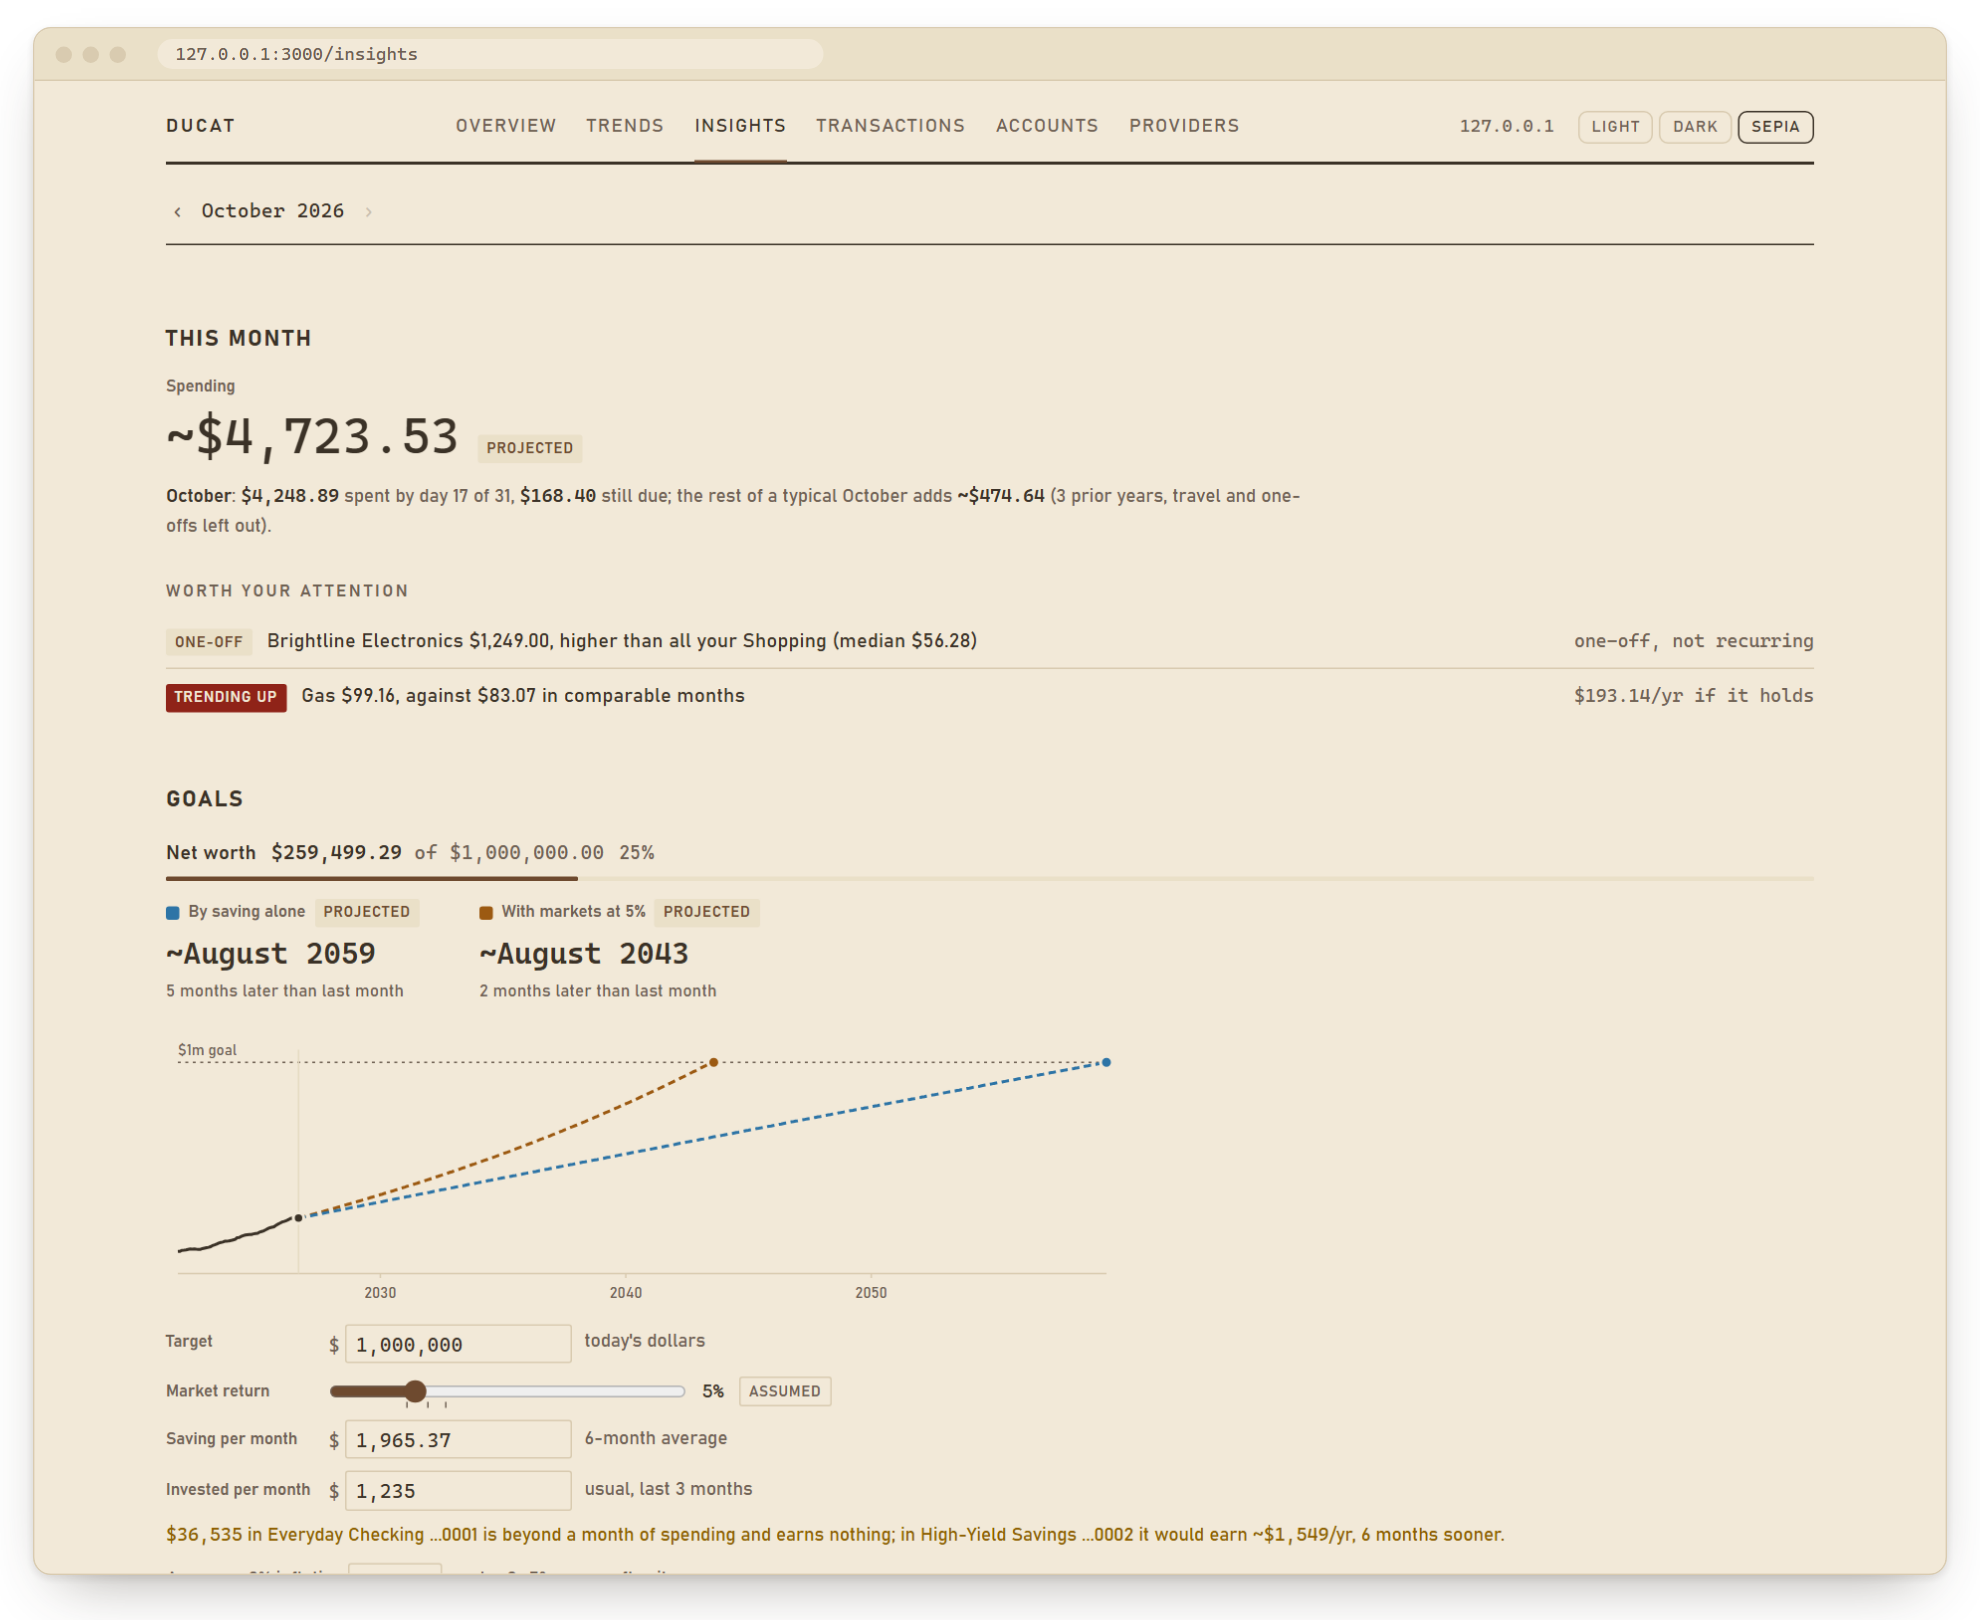
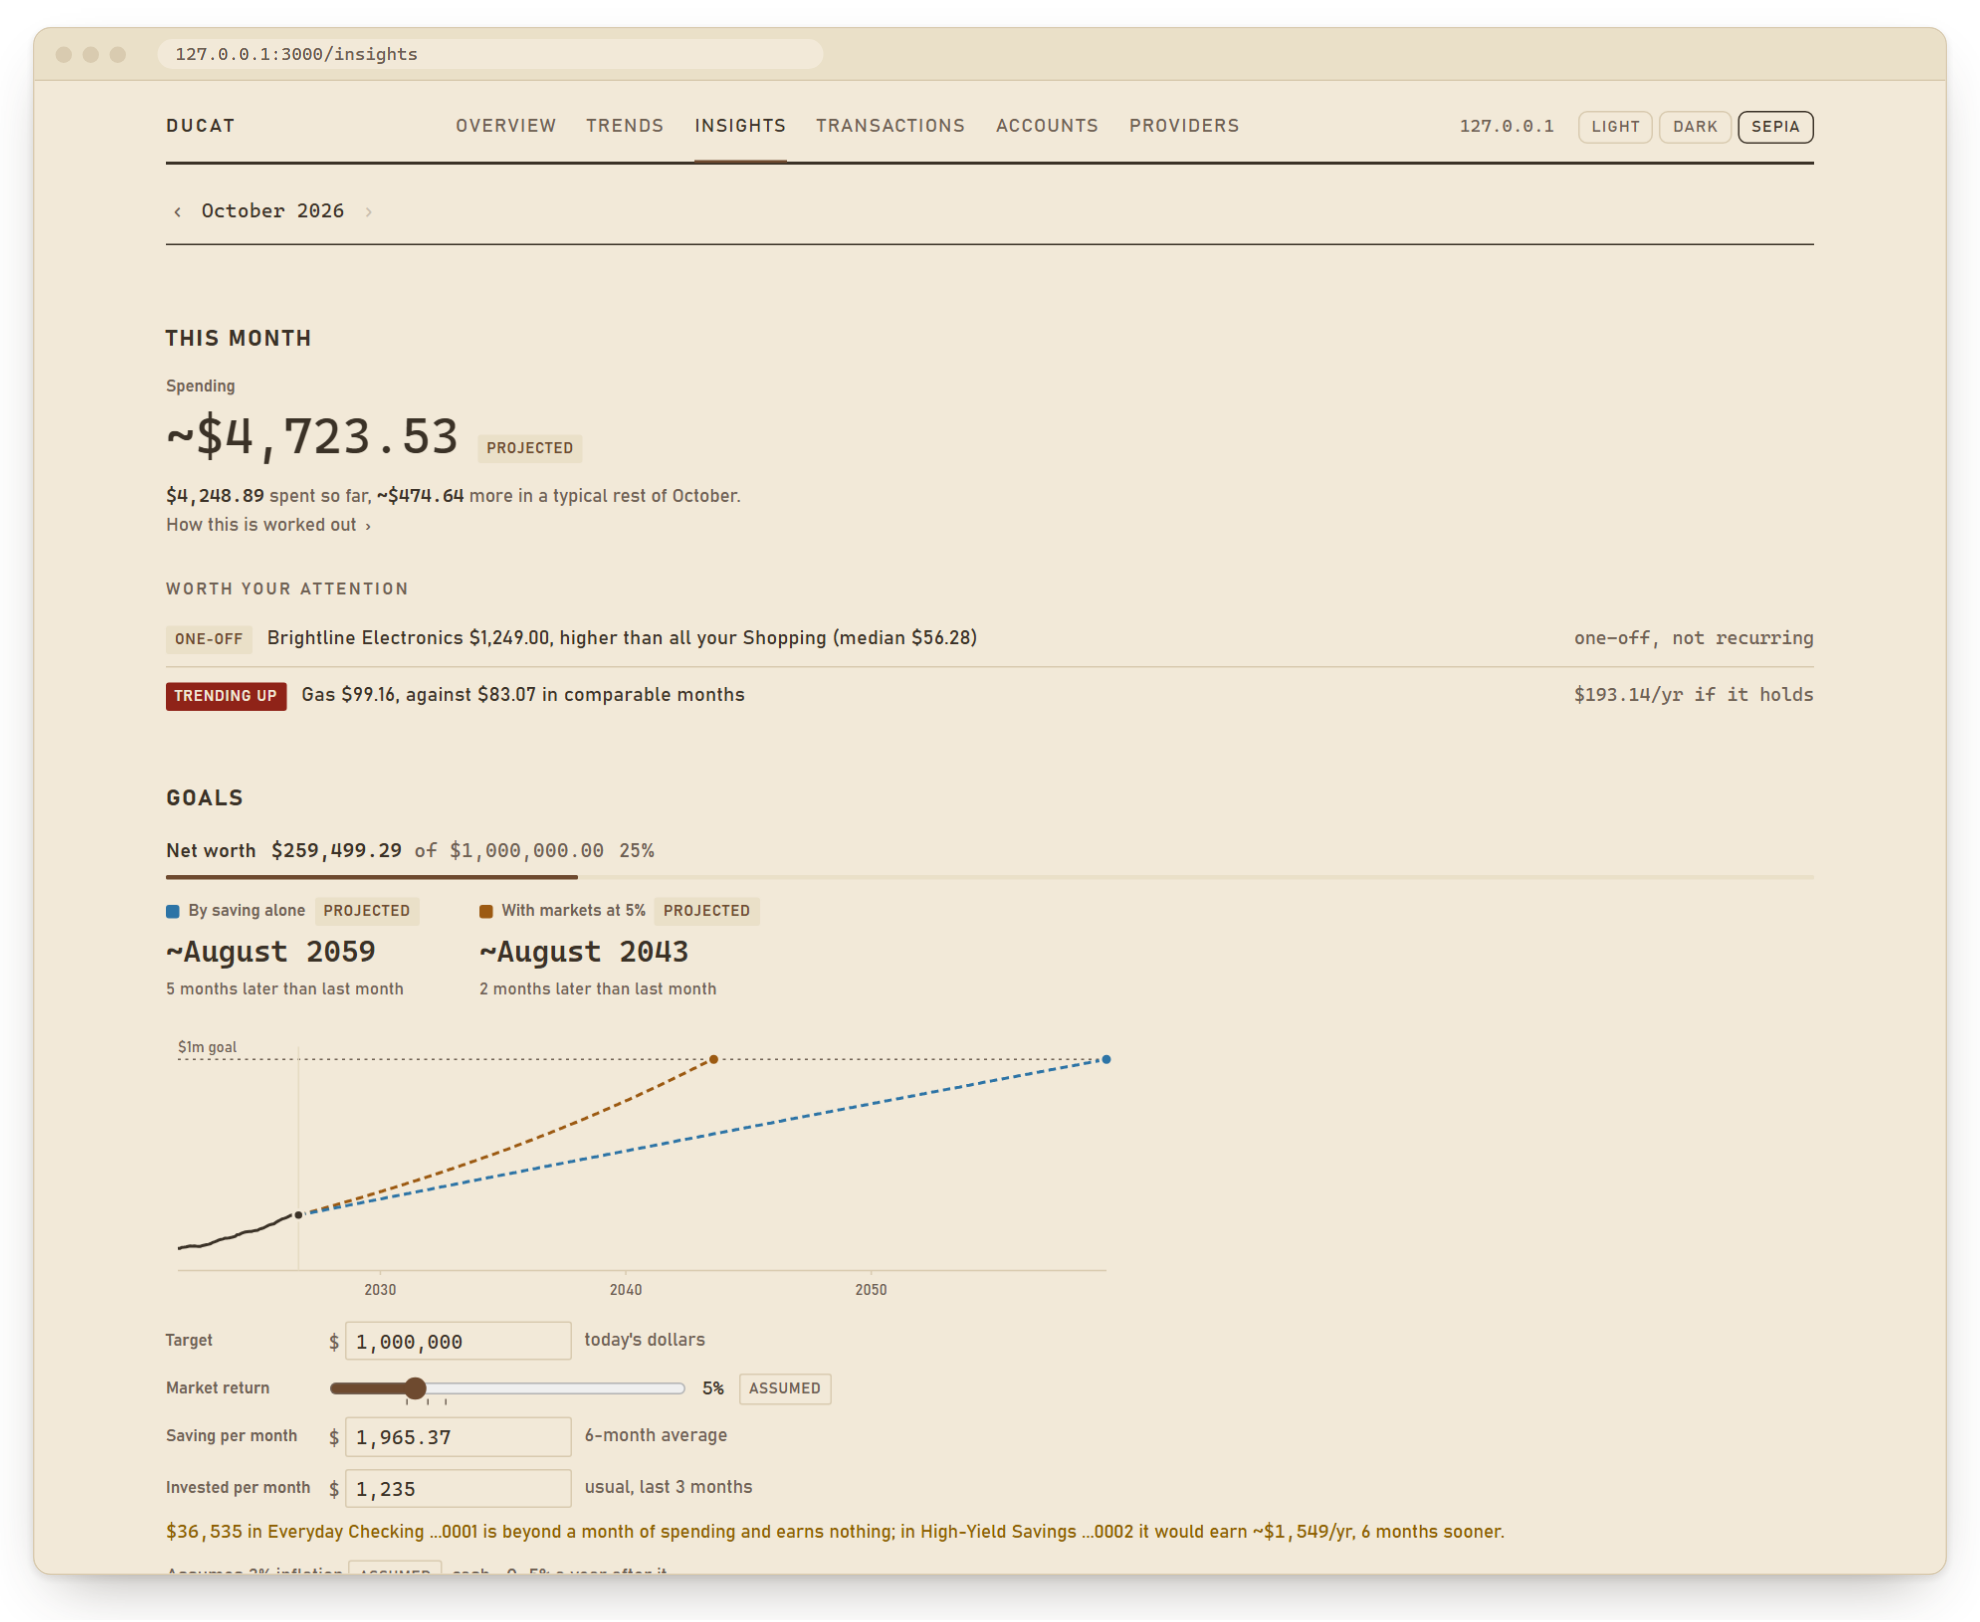
Say the month's spending in one line, with how it is worked out a tap away
The same approach as the net worth goal: in view, what is spent so far and
what a typical rest of the month adds, plus any caveat to discount. The
day of the month, the sample, what is left out and what is still due are
under "How this is worked out".

diff --git a/src/app/insights/page.tsx b/src/app/insights/page.tsx
@@ -332,52 +332,68 @@ function MonthHeadline({
           </span>
           {projected !== null && <span className={PROJECTED_CHIP}>Projected</span>}
         </div>
-        <p className="mt-1 max-w-[760px] text-[0.78rem] leading-relaxed text-faint">
-          {projected !== null ? (
-            <>
-              <Lead>{month}</Lead>: <Fig>{money(pace.spentSoFar)}</Fig> spent by day {pace.dayOfPeriod} of{" "}
-              {pace.daysInPeriod}
-              {due !== null && (
-                <>
-                  , <Fig>{money(due)}</Fig> still due
-                </>
-              )}
-              {pace.restIsEveryday ? (
-                <>
-                  ; the rest of a typical {pace.basis === "SAME_MONTH" ? month : "month"} adds{" "}
-                  <Fig>~{money(pace.typicalRest ?? 0)}</Fig> (
-                  {pace.basis === "SAME_MONTH" ? `${pace.basisCount} prior years` : `your last ${pace.basisCount} months`},
-                  travel and one-offs left out)
-                </>
-              ) : (
-                <>
-                  . {pace.basis === "SAME_MONTH" ? `A typical ${month} ran ` : "The last few months ran "}
-                  <Fig>{money(pace.typical ?? 0)}</Fig>
-                  {pace.basis === "SAME_MONTH" ? ` (${pace.basisCount} prior years)` : ""}
-                </>
-              )}
+        {projected !== null ? (
+          <>
+            {/* One line in view: what is spent and what a typical rest of the
+                month adds, with the one caveat to discount; how it is worked
+                out is a tap away. */}
+            <p className="mt-1 max-w-[760px] text-[0.78rem] leading-relaxed text-faint">
+              <Fig>{money(pace.spentSoFar)}</Fig> spent so far,{" "}
+              <Fig>~{money(pace.restIsEveryday ? (pace.typicalRest ?? 0) : Math.max(0, projected - pace.spentSoFar))}</Fig>{" "}
+              more in a typical rest of {month}
               {/* Visibly incomplete beats silently wrong: a baseline drawn
-                  from before an account existed is understated, so the
-                  projection leans low and says so. */}
-              {pace.basisMissingAccounts > 0 &&
-                `, though those months miss ${pace.basisMissingAccounts === 1 ? "an account" : `${pace.basisMissingAccounts} accounts`}, so it may run low`}
-              .
-            </>
-          ) : (
-            <>
-              <Lead>Spent in {month} so far</Lead>, day {pace.dayOfPeriod} of {pace.daysInPeriod}
-              {due !== null && (
-                <>
-                  , with <Fig>{money(due)}</Fig> due before month end
-                </>
-              )}
-              .{" "}
-              {pace.refusal === "TOO_EARLY"
-                ? "Too early in the month to say where it lands."
-                : `No comparable month to project from yet: ${pace.basisCount === 0 ? "none" : "too few"} with complete data.`}
-            </>
-          )}
-        </p>
+                  from before an account existed is understated. */}
+              {pace.basisMissingAccounts > 0 && "; may run low, earlier months miss an account"}.
+            </p>
+            <details className="group max-w-[760px] text-[0.78rem] text-faint">
+              <summary className="flex cursor-pointer list-none items-center gap-1.5 max-md:min-h-[44px] [&::-webkit-details-marker]:hidden">
+                How this is worked out
+                <span aria-hidden="true" className="text-[0.7rem] transition-transform group-open:rotate-90">
+                  ›
+                </span>
+              </summary>
+              <p className="pt-1 leading-relaxed">
+                Day {pace.dayOfPeriod} of {pace.daysInPeriod}.{" "}
+                {pace.restIsEveryday ? (
+                  <>
+                    The rest of the month is what{" "}
+                    {pace.basis === "SAME_MONTH" ? `the last ${pace.basisCount} ${month}s` : `your last ${pace.basisCount} months`}{" "}
+                    spent after day {pace.dayOfPeriod}, travel and one-off purchases left out; anything you spend this month
+                    counts.
+                  </>
+                ) : (
+                  <>
+                    {pace.basis === "SAME_MONTH" ? `A typical ${month} ran ` : "The last few months ran "}
+                    <Fig>{money(pace.typical ?? 0)}</Fig>
+                    {pace.basis === "SAME_MONTH" ? ` (${pace.basisCount} prior years)` : ""}, and the rest of the month is
+                    its share.
+                  </>
+                )}
+                {due !== null && (
+                  <>
+                    {" "}
+                    <Fig>{money(due)}</Fig> of recurring charges is still due, the least the rest can be.
+                  </>
+                )}
+                {pace.basisMissingAccounts > 0 &&
+                  ` Those months miss ${pace.basisMissingAccounts === 1 ? "an account" : `${pace.basisMissingAccounts} accounts`} you have now, so their spending reads low.`}
+              </p>
+            </details>
+          </>
+        ) : (
+          <p className="mt-1 max-w-[760px] text-[0.78rem] leading-relaxed text-faint">
+            <Lead>Spent in {month} so far</Lead>, day {pace.dayOfPeriod} of {pace.daysInPeriod}
+            {due !== null && (
+              <>
+                , with <Fig>{money(due)}</Fig> due before month end
+              </>
+            )}
+            .{" "}
+            {pace.refusal === "TOO_EARLY"
+              ? "Too early in the month to say where it lands."
+              : `No comparable month to project from yet: ${pace.basisCount === 0 ? "none" : "too few"} with complete data.`}
+          </p>
+        )}
       </div>
     );
   }

diff --git a/.claude/rules/ui-reports.md b/.claude/rules/ui-reports.md
@@ -92,7 +92,9 @@ Overview:
 - /insights LEADS with one figure, the month's spending: projected (with
   its chip) for the month being lived in, spent so far while pace refuses
   (said in words), the analyzer's total for a closed month. Its context
-  line is the pace paragraph; never print that paragraph again below.
+  is ONE line in view (spent so far, what a typical rest of the month adds,
+  any caveat to discount); how it is worked out is behind a tap, and never
+  printed again below.
 - /insights admits the month being LIVED IN before it has rows — and ONLY
   that month — and DEFAULTS to it, because every current-gated panel (goals,
   readiness, pace, commitments) lives there. Prior months stay one ‹ away.
